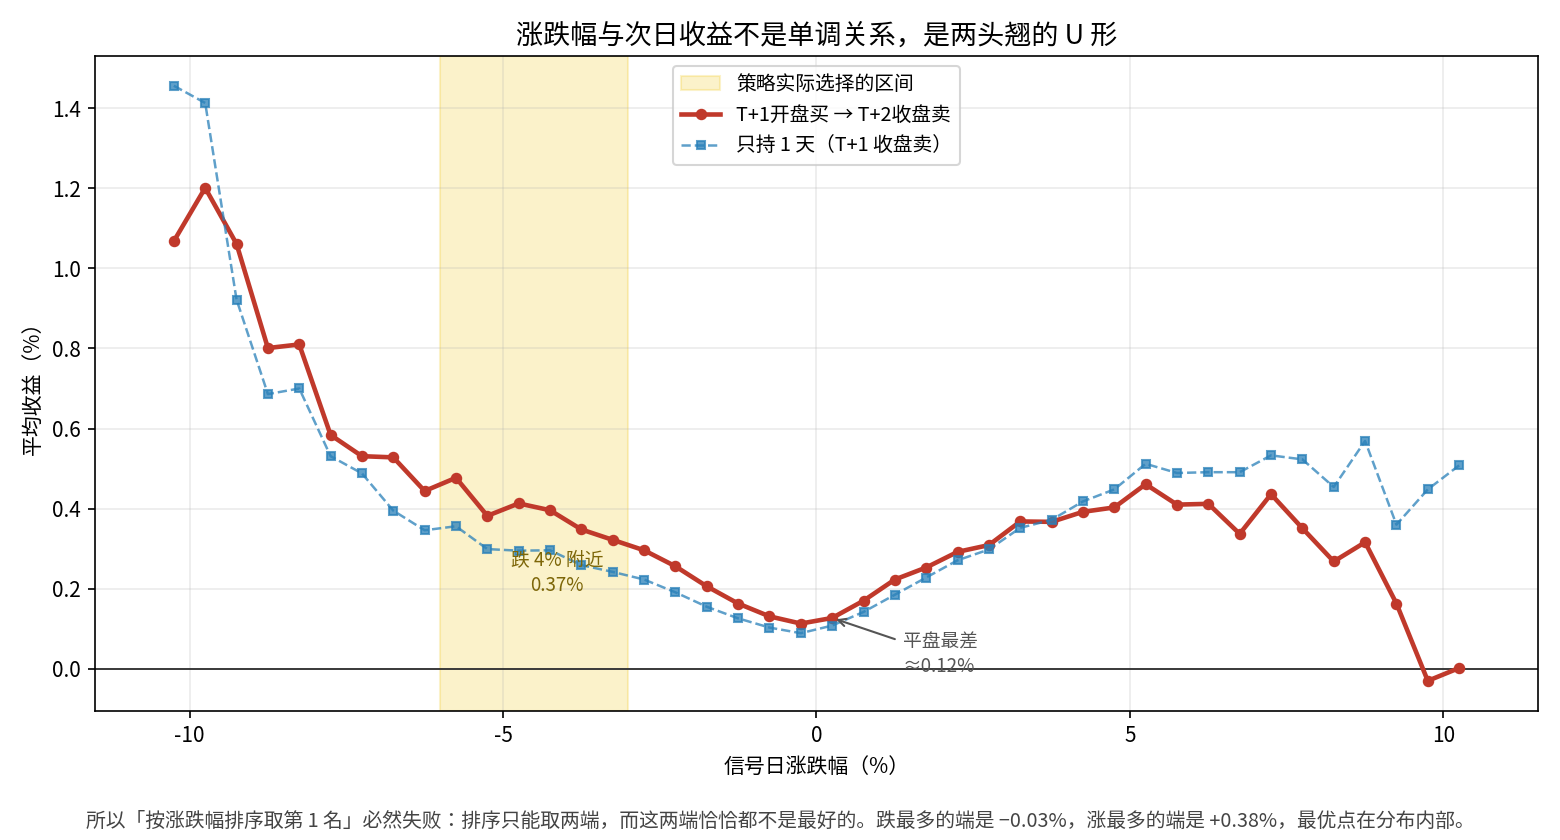
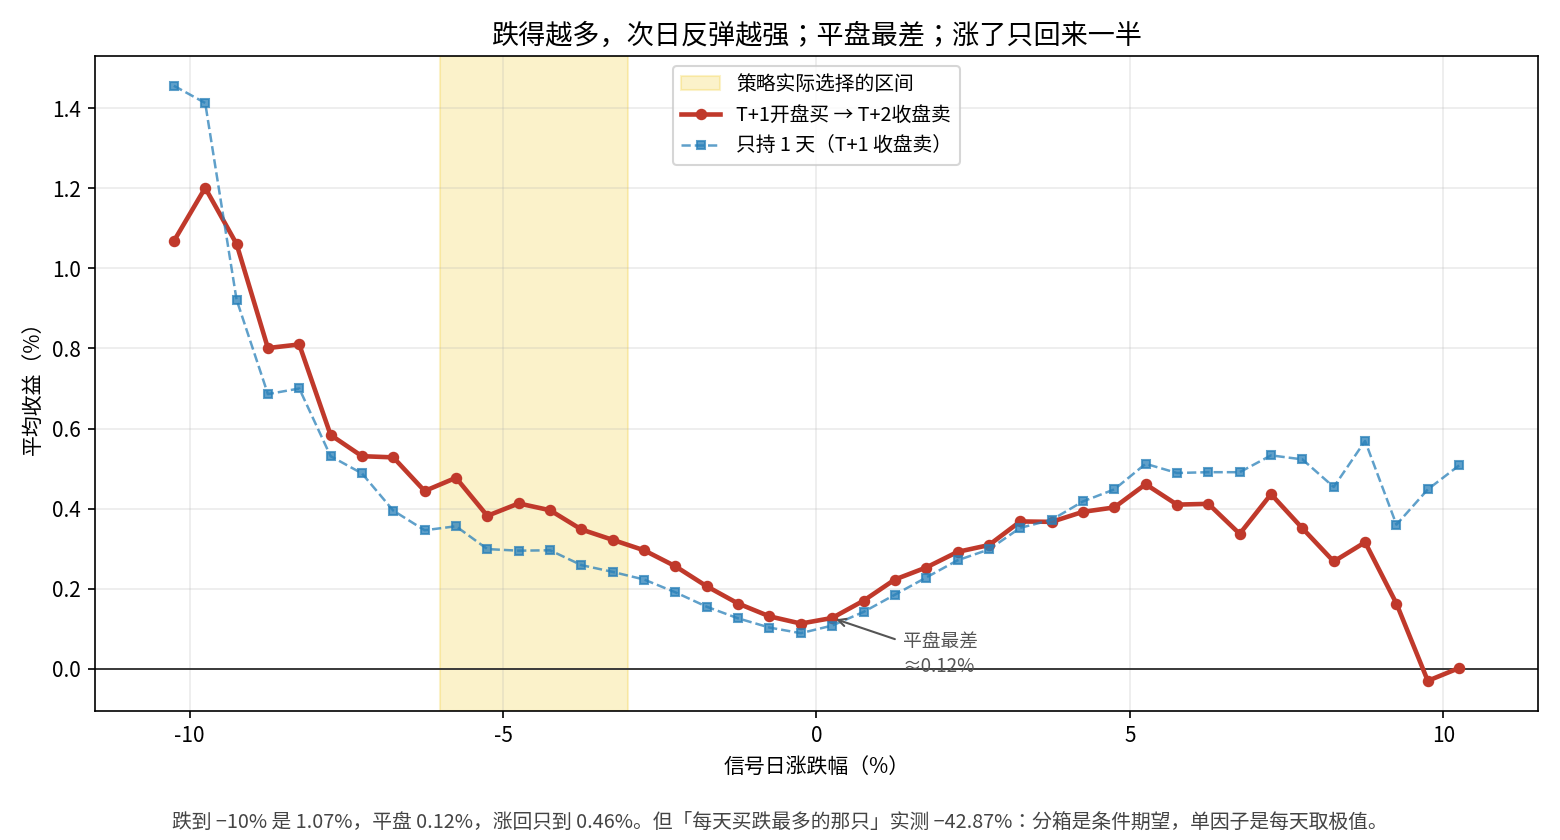
第234轮: 图2标题与图注对齐曲线实际形状(跌得越多越好, 平盘最差)

Changed region(s): [[0.0615, 0.9595, 0.9538, 0.9905], [0.3077, 0.0, 0.7385, 0.0619], [0.3077, 0.65, 0.4, 0.7119]]

diff --git a/tools/make_fig_234.py b/tools/make_fig_234.py
@@ -70,19 +70,15 @@ def fig2() -> None:
            label="只持 1 天（T+1 收盘卖）")
     a.set_xlabel("信号日涨跌幅（%）")
     a.set_ylabel("平均收益（%）")
-    a.set_title("涨跌幅与次日收益不是单调关系，是两头翘的 U 形", fontsize=13)
+    a.set_title("跌得越多，次日反弹越强；平盘最差；涨了只回来一半", fontsize=13)
     a.legend(fontsize=9.5, loc="upper center")
     a.grid(alpha=0.25)
     a.set_xlim(-11.5, 11.5)
-    a.annotate(f"跌 4% 附近\n{d[d['mid'].between(-4.5,-3.5)]['y'].mean():.2f}%",
-               (-4, float(d[d["mid"].between(-4.5, -3.5)]["y"].mean())),
-               textcoords="offset points", xytext=(-4, -34), ha="center", fontsize=9,
-               color="#7d6608")
     a.annotate("平盘最差\n≈0.12%", (0.25, 0.127), textcoords="offset points",
                xytext=(34, -26), fontsize=9, color="#555",
                arrowprops=dict(arrowstyle="->", color="#555", lw=1))
-    fig.text(0.5, 0.015, "所以「按涨跌幅排序取第 1 名」必然失败：排序只能取两端，"
-             "而这两端恰恰都不是最好的。跌最多的端是 −0.03%，涨最多的端是 +0.38%，最优点在分布内部。",
+    fig.text(0.5, 0.015, "跌到 −10% 是 1.07%，平盘 0.12%，涨回只到 0.46%。"
+             "但「每天买跌最多的那只」实测 −42.87%：分箱是条件期望，单因子是每天取极值。",
              ha="center", fontsize=9.5, color="#444")
     fig.tight_layout(rect=[0, 0.05, 1, 1])
     fig.savefig(ROOT / "第234轮_涨跌幅的U形.png", dpi=150)
